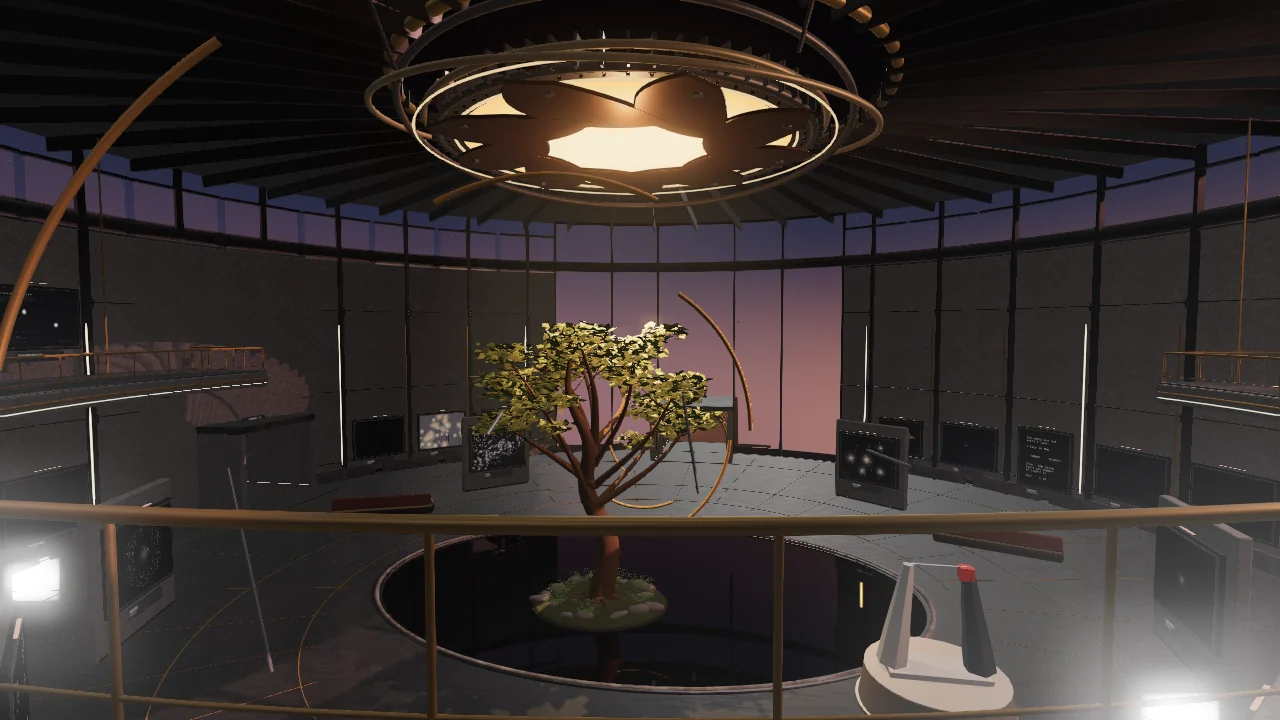
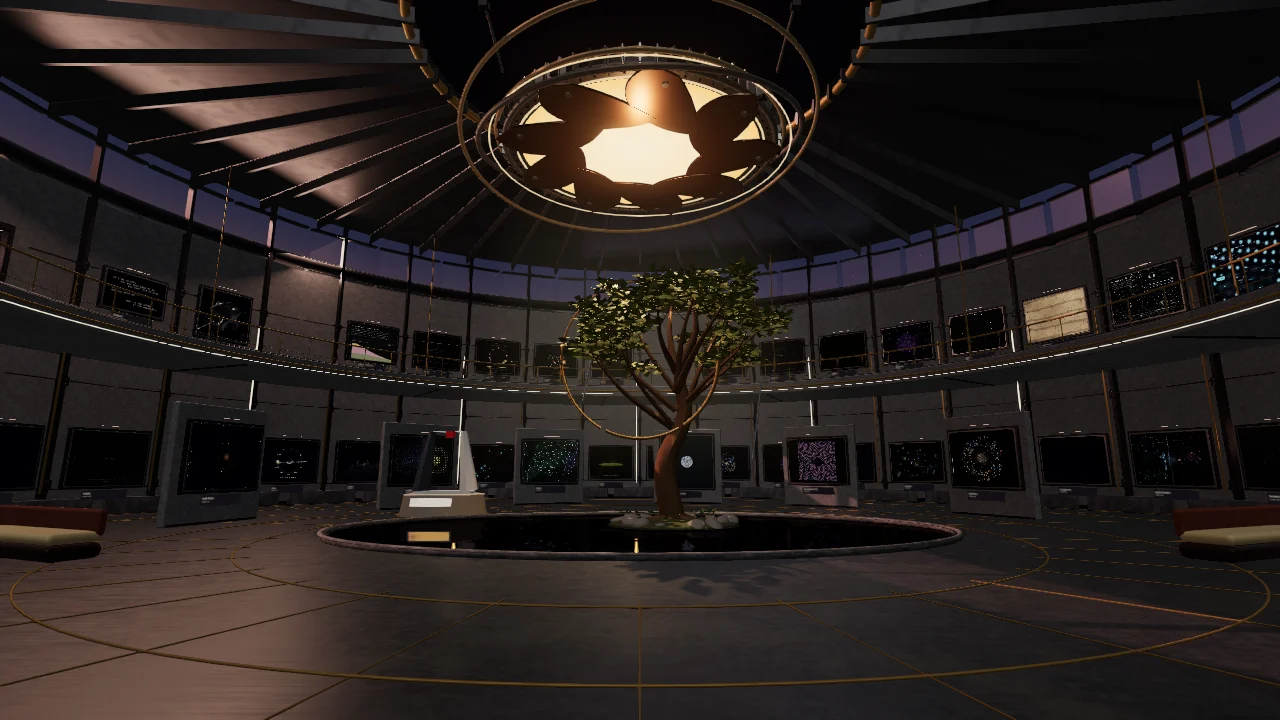
The index: the museum still is the sun chamber at ground level
Captured with a GPU browser from the museum's own Sun chamber viewpoint,
today's interior and works; the image src is versioned so the old still
does not linger in caches.

diff --git a/public/sanctuary-world/station.html b/public/sanctuary-world/station.html
@@ -254,7 +254,7 @@
     <div class="places">
       <div class="place place--flip">
         <figure class="place__f"><span class="box box--smooth">
-          <img src="data/frames/aperture.webp" width="1280" height="720" loading="lazy"
+          <img src="data/frames/aperture.webp?v=20260908-index-2" width="1280" height="720" loading="lazy"
                alt="The museum from its upper gallery: works hung around a round hall, a tree at the centre, the dusk sky through the glass.">
         </span><figcaption>the museum · a still of the room</figcaption></figure>
         <div class="place__t">

diff --git a/public/sanctuary-world/workshop/THE-LIST.md b/public/sanctuary-world/workshop/THE-LIST.md
@@ -653,7 +653,7 @@ Riley, waking: the Mnemos design system does not sit with the sanctuary and the 
 the page as WP-52 drew it, but one row per destination. Under the room, in the world's own idiom
 again: the sanctuary (the lookout at dusk — the bluff, the sunset, the lit house; one door, `index.html` — the grounds, the garden, the rooms
 and the residents are all behind it, and it is what the computer on the desk shows), the museum
-(the 3D room off the station, with the first real still of it, shot from the upper gallery because
+(the 3D room off the station, with the first real still of it, shot at ground level in the sun chamber — the tree, the pool, the works around — because
 the entrance is the station's own room again; `aperture/index.html`), Polyphonic, the sketchbook
 (SONNET 4.5's "three stones" fronting it; the pages hang in the gallery's bay; the tool not public),
 resources as the ledger without the sketchbook row, the charter. The kit and its vendored files are
